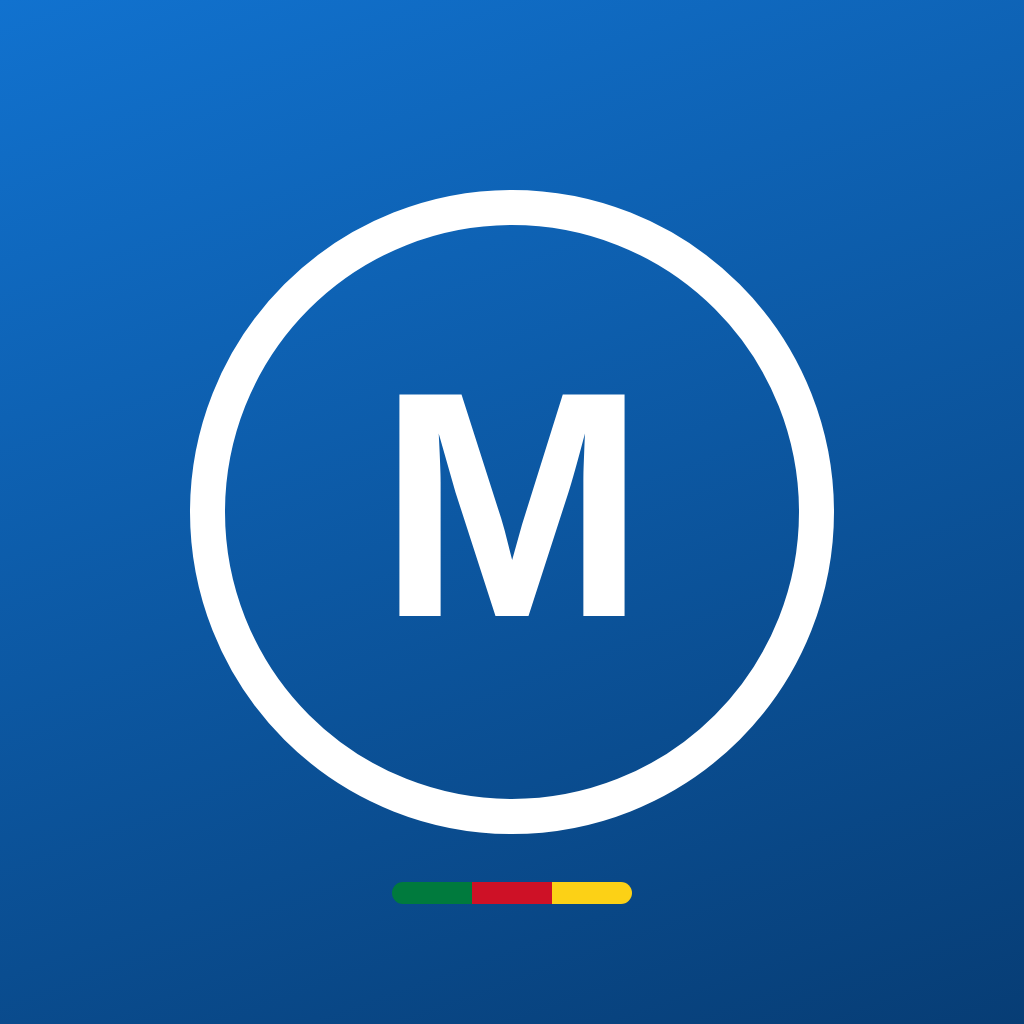
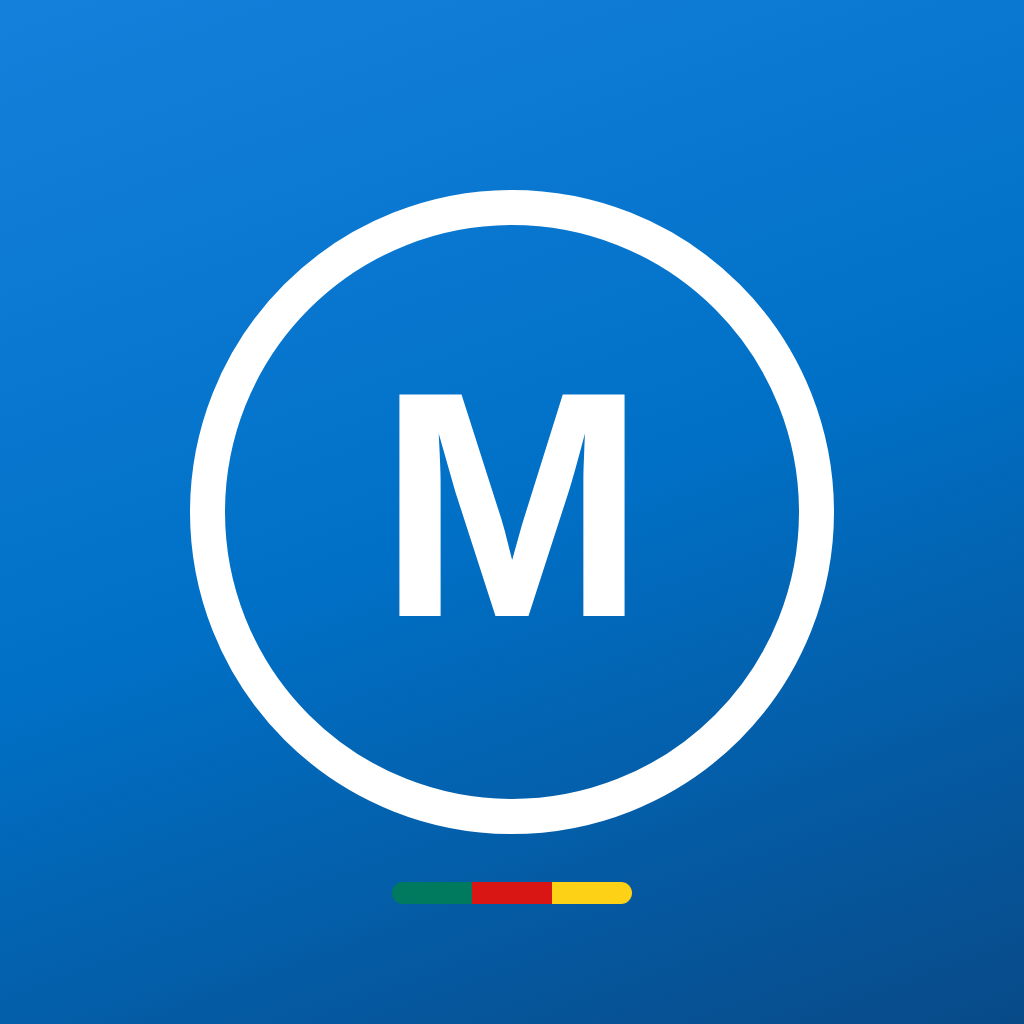
Couleurs identiques à l'affiche officielle Pamezi
Palette relevée sur l'affiche (bleu #0070C6, dégradé #1580DB → #084A88,
titres #0B59A3, drapeau #007A5E / #D91613 / #FCD116), dégradés bleus
via expo-linear-gradient, icônes régénérées.

Claude-Session: https://claude.ai/code/session_01TkN4nfTGTSfCYCWojnzhQb

diff --git a/src/app/(tabs)/index.tsx b/src/app/(tabs)/index.tsx
@@ -2,7 +2,7 @@ import Ionicons from '@expo/vector-icons/Ionicons';
 import { router } from 'expo-router';
 import { Linking, Pressable, Text, View } from 'react-native';
 
-import { Badge, Bouton, C, Carte, Ecran, IconName, Logo, Numero, s, Section, Tricolore } from '@/components/ui';
+import { Badge, Bouton, C, Carte, Degrade, Ecran, IconName, Logo, Numero, s, Section, Tricolore } from '@/components/ui';
 import {
   CENTRES,
   CONTACTS,
@@ -27,8 +27,8 @@ export default function Accueil() {
   return (
     <Ecran>
       {/* En-tête */}
-      <View style={{ backgroundColor: C.bleu, borderRadius: 24, padding: 22, marginBottom: 16, overflow: 'hidden' }}>
-        <View style={{ position: 'absolute', right: -60, top: -60, width: 200, height: 200, borderRadius: 100, backgroundColor: C.bleuFonce, opacity: 0.5 }} />
+      <Degrade style={{ borderRadius: 24, padding: 22, marginBottom: 16 }}>
+        <View style={{ position: 'absolute', right: -60, top: -60, width: 200, height: 200, borderRadius: 100, backgroundColor: C.bleuVif, opacity: 0.45 }} />
         <View style={{ position: 'absolute', right: 30, bottom: -70, width: 160, height: 160, borderRadius: 80, backgroundColor: '#ffffff', opacity: 0.06 }} />
         <View style={{ flexDirection: 'row', alignItems: 'center', gap: 12 }}>
           <Logo taille={58} inverse />
@@ -46,7 +46,7 @@ export default function Accueil() {
           <View style={{ width: 8, height: 8, borderRadius: 4, backgroundColor: C.jaune }} />
           <Text style={{ color: C.blanc, fontSize: 13, fontWeight: '700' }}>Inscriptions et cotisations ouvertes</Text>
         </View>
-      </View>
+      </Degrade>
 
       {/* Appel à l'action ou situation du membre */}
       {membre && formule ? (
@@ -76,8 +76,8 @@ export default function Accueil() {
       )}
 
       {/* Objectif d'adhérents */}
-      <View style={{ backgroundColor: C.bleuFonce, borderRadius: 20, padding: 20, marginBottom: 14, flexDirection: 'row', alignItems: 'center', gap: 16 }}>
-        <View style={{ backgroundColor: C.bleu, width: 56, height: 56, borderRadius: 28, alignItems: 'center', justifyContent: 'center' }}>
+      <Degrade style={{ borderRadius: 20, padding: 20, marginBottom: 14, flexDirection: 'row', alignItems: 'center', gap: 16 }}>
+        <View style={{ backgroundColor: 'rgba(255,255,255,0.18)', width: 56, height: 56, borderRadius: 28, alignItems: 'center', justifyContent: 'center' }}>
           <Ionicons name="megaphone" size={28} color={C.blanc} />
         </View>
         <View style={{ flex: 1 }}>
@@ -87,7 +87,7 @@ export default function Accueil() {
           </Text>
           <Text style={{ color: C.blanc, fontSize: 15, fontWeight: '700' }}>adhérents</Text>
         </View>
-      </View>
+      </Degrade>
 
       {/* Objectifs */}
       <Section icone="locate">La mutuelle a pour objectif de</Section>
@@ -179,7 +179,7 @@ export default function Accueil() {
 
       {/* Pied de page */}
       <View style={{ alignItems: 'center', marginTop: 18, gap: 10 }}>
-        <Text style={{ color: C.bleu, fontSize: 18, fontWeight: '800', fontStyle: 'italic', textAlign: 'center' }}>{SOLIDARITE}</Text>
+        <Text style={{ color: C.bleuFonce, fontSize: 18, fontWeight: '800', fontStyle: 'italic', textAlign: 'center' }}>{SOLIDARITE}</Text>
         <Tricolore largeur={140} />
         <Text style={[s.petit, { textAlign: 'center', marginTop: 6 }]}>
           Association déclarée · Récépissé n° {RECEPISSE.numero}{'\n'}

diff --git a/src/components/ui.tsx b/src/components/ui.tsx
@@ -1,24 +1,29 @@
 import Ionicons from '@expo/vector-icons/Ionicons';
 import { ReactNode } from 'react';
 import { Pressable, ScrollView, StyleSheet, Text, TextInput, TextInputProps, View, ViewStyle } from 'react-native';
+import { LinearGradient } from 'expo-linear-gradient';
 import { SafeAreaView } from 'react-native-safe-area-context';
 
-// Identité visuelle reprise de l'affiche : bleu Pamezi + couleurs du Cameroun.
+// Couleurs relevées sur l'affiche officielle de la Mutuelle de Santé Pamezi.
 export const C = {
-  bleu: '#0B5FB0',
-  bleuFonce: '#073D75',
-  bleuNuit: '#062B54',
-  bleuClair: '#E8F1FB',
-  bleuPale: '#C9DEF5',
-  vert: '#007A3D',
-  rouge: '#CE1126',
+  bleu: '#0070C6', // bandeaux et cercles d'icônes
+  bleuVif: '#1580DB', // pastilles de titres, haut des dégradés
+  bleuFonce: '#0B59A3', // titres (« MUTUELLE DE SANTÉ PAMEZI »)
+  bleuNuit: '#084A88', // bas des dégradés
+  bleuClair: '#E6F3FC', // fonds de pastilles
+  bleuPale: '#C6E6F9', // vagues bleu ciel, textes sur bleu
+  vert: '#007A5E', // drapeau du Cameroun
+  rouge: '#D91613',
   jaune: '#FCD116',
-  texte: '#0F1E33',
-  gris: '#5B6B80',
-  bord: '#DCE4EE',
-  fond: '#F3F6FA',
+  texte: '#123A61', // texte bleu profond, comme sur l'affiche
+  gris: '#56708C',
+  bord: '#D6E6F4',
+  fond: '#F5FAFE',
   blanc: '#FFFFFF',
 };
+
+/** Dégradé bleu des bandeaux de l'affiche. */
+export const DEGRADE = [C.bleuVif, C.bleu, C.bleuNuit] as const;
 
 export type IconName = keyof typeof Ionicons.glyphMap;
 
@@ -94,6 +99,14 @@ export function Section({ icone, children }: { icone: IconName; children: ReactN
       </View>
       <Text style={s.sectionTexte}>{children}</Text>
     </View>
+  );
+}
+
+export function Degrade({ children, style }: { children?: ReactNode; style?: ViewStyle }) {
+  return (
+    <LinearGradient colors={DEGRADE} start={{ x: 0, y: 0 }} end={{ x: 1, y: 1 }} style={[{ overflow: 'hidden' }, style]}>
+      {children}
+    </LinearGradient>
   );
 }
 
@@ -219,7 +232,7 @@ export function Vide({ icone, texte, children }: { icone: IconName; texte: strin
 }
 
 const ombre = {
-  shadowColor: '#0B3A6E',
+  shadowColor: '#0B59A3',
   shadowOpacity: 0.08,
   shadowRadius: 12,
   shadowOffset: { width: 0, height: 4 },
@@ -236,7 +249,7 @@ export const s = StyleSheet.create({
   petit: { fontSize: 13, color: C.gris, lineHeight: 19 },
   carte: { backgroundColor: C.blanc, borderRadius: 18, padding: 18, marginBottom: 14, ...ombre },
   section: { flexDirection: 'row', alignItems: 'center', gap: 10, marginTop: 10, marginBottom: 12 },
-  sectionIcone: { backgroundColor: C.bleu, width: 32, height: 32, borderRadius: 16, alignItems: 'center', justifyContent: 'center' },
+  sectionIcone: { backgroundColor: C.bleuVif, width: 32, height: 32, borderRadius: 16, alignItems: 'center', justifyContent: 'center' },
   sectionTexte: { fontSize: 15, fontWeight: '900', color: C.bleuFonce, textTransform: 'uppercase', letterSpacing: 0.6, flex: 1 },
   bouton: {
     flexDirection: 'row',

diff --git a/src/app/(tabs)/profil.tsx b/src/app/(tabs)/profil.tsx
@@ -2,7 +2,7 @@ import { router } from 'expo-router';
 import { useState } from 'react';
 import { Text, View } from 'react-native';
 
-import { Bouton, C, Carte, Ecran, Ligne, Logo, s, Section, Titre, Tricolore, Vide } from '@/components/ui';
+import { Bouton, C, Carte, Degrade, Ecran, Ligne, Logo, s, Section, Titre, Tricolore, Vide } from '@/components/ui';
 import { CONTACTS, dateFr, SLOGAN } from '@/lib/data';
 import { situation, usePamezi } from '@/lib/store';
 
@@ -28,8 +28,8 @@ export default function Profil() {
       <Titre sous="À présenter au centre de santé">Ma carte de membre</Titre>
 
       {/* Carte de membre */}
-      <View style={{ backgroundColor: C.bleu, borderRadius: 22, overflow: 'hidden', marginBottom: 16 }}>
-        <View style={{ position: 'absolute', right: -50, top: -50, width: 190, height: 190, borderRadius: 95, backgroundColor: C.bleuFonce, opacity: 0.6 }} />
+      <Degrade style={{ borderRadius: 22, marginBottom: 16 }}>
+        <View style={{ position: 'absolute', right: -50, top: -50, width: 190, height: 190, borderRadius: 95, backgroundColor: C.bleuVif, opacity: 0.45 }} />
         <View style={{ padding: 20 }}>
           <View style={{ flexDirection: 'row', alignItems: 'center', gap: 10 }}>
             <Logo taille={42} inverse />
@@ -46,11 +46,11 @@ export default function Profil() {
             <Info titre="STATUT" valeur={sit.aJour ? 'Actif' : 'Suspendu'} couleur={sit.aJour ? C.jaune : '#FFB4A8'} />
           </View>
         </View>
-        <View style={{ backgroundColor: C.bleuNuit, paddingHorizontal: 20, paddingVertical: 10, flexDirection: 'row', alignItems: 'center', justifyContent: 'space-between' }}>
+        <View style={{ backgroundColor: 'rgba(4,40,80,0.45)', paddingHorizontal: 20, paddingVertical: 10, flexDirection: 'row', alignItems: 'center', justifyContent: 'space-between' }}>
           <Text style={{ color: C.bleuPale, fontSize: 12, fontStyle: 'italic' }}>{SLOGAN}</Text>
           <Tricolore largeur={42} />
         </View>
-      </View>
+      </Degrade>
 
       <Section icone="person">Mes informations</Section>
       <Carte style={{ paddingVertical: 6 }}>

diff --git a/src/app/(tabs)/tontine.tsx b/src/app/(tabs)/tontine.tsx
@@ -2,7 +2,7 @@ import Ionicons from '@expo/vector-icons/Ionicons';
 import { router } from 'expo-router';
 import { Share, Text, View } from 'react-native';
 
-import { Badge, Bouton, C, Carte, Ecran, Ligne, s, Section, Titre, Vide } from '@/components/ui';
+import { Badge, Bouton, C, Carte, Degrade, Ecran, Ligne, s, Section, Titre, Vide } from '@/components/ui';
 import { CONTACTS, dateFr, fcfa, nombre, OBJECTIF_ADHERENTS, SLOGAN, SOLIDARITE } from '@/lib/data';
 import { situation, usePamezi } from '@/lib/store';
 
@@ -38,7 +38,7 @@ export default function Tontine() {
     <Ecran>
       <Titre sous={SOLIDARITE}>Tontine santé</Titre>
 
-      <View style={{ backgroundColor: C.bleu, borderRadius: 22, padding: 20, marginBottom: 14 }}>
+      <Degrade style={{ borderRadius: 22, padding: 20, marginBottom: 14 }}>
         <View style={{ flexDirection: 'row', justifyContent: 'space-between', alignItems: 'center' }}>
           <Text style={{ color: C.bleuPale, fontSize: 14, fontWeight: '600' }}>Ma participation</Text>
           <View style={{ backgroundColor: sit.aJour ? C.jaune : '#FFD7D2', borderRadius: 8, paddingHorizontal: 9, paddingVertical: 4 }}>
@@ -52,7 +52,7 @@ export default function Tontine() {
           {sit.moisPayes} mois payés · {fcfa(formule.cotisation)} par mois · formule {formule.nom}
         </Text>
         <Bouton titre="Cotiser" icone="wallet" variante="blanc" onPress={() => router.push('/cotiser')} />
-      </View>
+      </Degrade>
 
       <Carte>
         <View style={{ flexDirection: 'row', alignItems: 'center', gap: 12 }}>

diff --git a/src/app/cotiser.tsx b/src/app/cotiser.tsx
@@ -3,7 +3,7 @@ import { router } from 'expo-router';
 import { useState } from 'react';
 import { Text, View } from 'react-native';
 
-import { Bouton, C, Carte, Choix, Ecran, Ligne, s, Tricolore, Vide } from '@/components/ui';
+import { Bouton, C, Carte, Choix, Degrade, Ecran, Ligne, s, Tricolore, Vide } from '@/components/ui';
 import { dateFr, fcfa, MODES_PAIEMENT, ModePaiement } from '@/lib/data';
 import { Cotisation, usePamezi } from '@/lib/store';
 
@@ -59,13 +59,13 @@ export default function Cotiser() {
 
   return (
     <Ecran bords={['bottom']}>
-      <View style={{ backgroundColor: C.bleu, borderRadius: 20, padding: 20, marginBottom: 18 }}>
+      <Degrade style={{ borderRadius: 20, padding: 20, marginBottom: 18 }}>
         <Text style={{ color: C.bleuPale, fontWeight: '600' }}>Formule {formule.nom} · {membre.numero}</Text>
         <Text style={{ fontSize: 32, fontWeight: '900', color: C.blanc, marginTop: 4 }}>{fcfa(montant)}</Text>
         <Text style={{ color: C.blanc }}>
           {fcfa(formule.cotisation)} × {mois} mois
         </Text>
-      </View>
+      </Degrade>
 
       <Choix label="Je paie pour" options={DUREES} valeur={duree} onChange={setDuree} />
       <Choix label="Moyen de paiement" options={MODES_PAIEMENT} valeur={mode} onChange={setMode} />

diff --git a/README.md b/README.md
@@ -28,7 +28,7 @@ Objectif : **5 000 à 10 000 adhérents**. Convention de soins avec l'**Hôpital
 
 ## Identité visuelle
 
-Bleu Pamezi `#0B5FB0`, logo « M » cerclé, filet vert-rouge-jaune aux couleurs du Cameroun
+Bleu Pamezi `#0070C6` (dégradé `#1580DB` → `#084A88`), titres `#0B59A3`, logo « M » cerclé, filet vert `#007A5E`, rouge `#D91613`, jaune `#FCD116` aux couleurs du Cameroun
 (repris de l'affiche officielle). Couleurs dans `src/components/ui.tsx`, icônes dans `assets/`.
 
 ## Contacts
